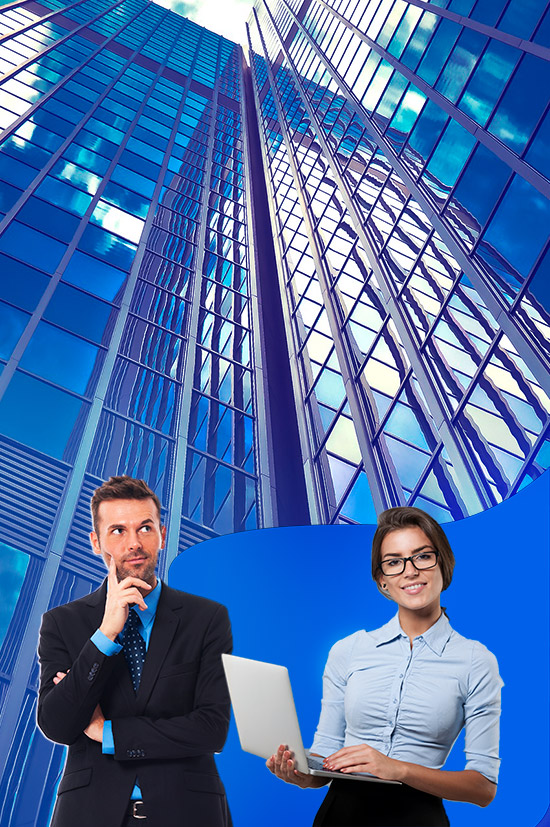
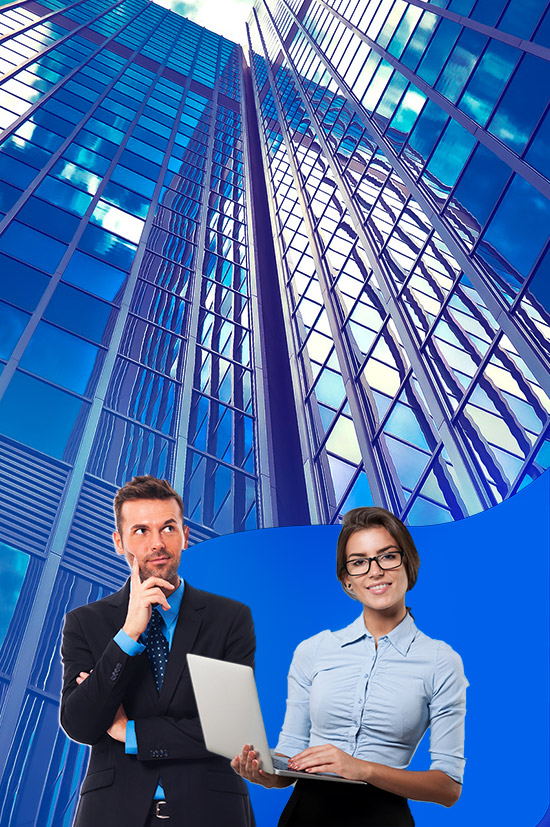
variações do layout

Changed region(s): [[0.34, 0.6046, 0.9273, 1.0], [0.0618, 0.5744, 0.4018, 1.0]]

diff --git a/style.css b/style.css
@@ -280,6 +280,8 @@ footer p {
         width: 100%;
         top: 300px;
         font-size: 23px;
+        width: auto;
+        height: auto;
         font-weight: 500;
     }
 
@@ -307,9 +309,14 @@ footer p {
         top: 987px;
     }
 
+
     .faixa_3 {
-        top: 1735px;
+        position: absolute;
+        width: 100%;
+        top: 1953px;
+        Height: 44px;
     }
+
 
 
     .btn1 {
@@ -321,6 +328,7 @@ footer p {
         top: 20%;
         padding: 2em;
         background-color: #0050C3;
+        border-radius: 3em;
     }
 
     footer {
